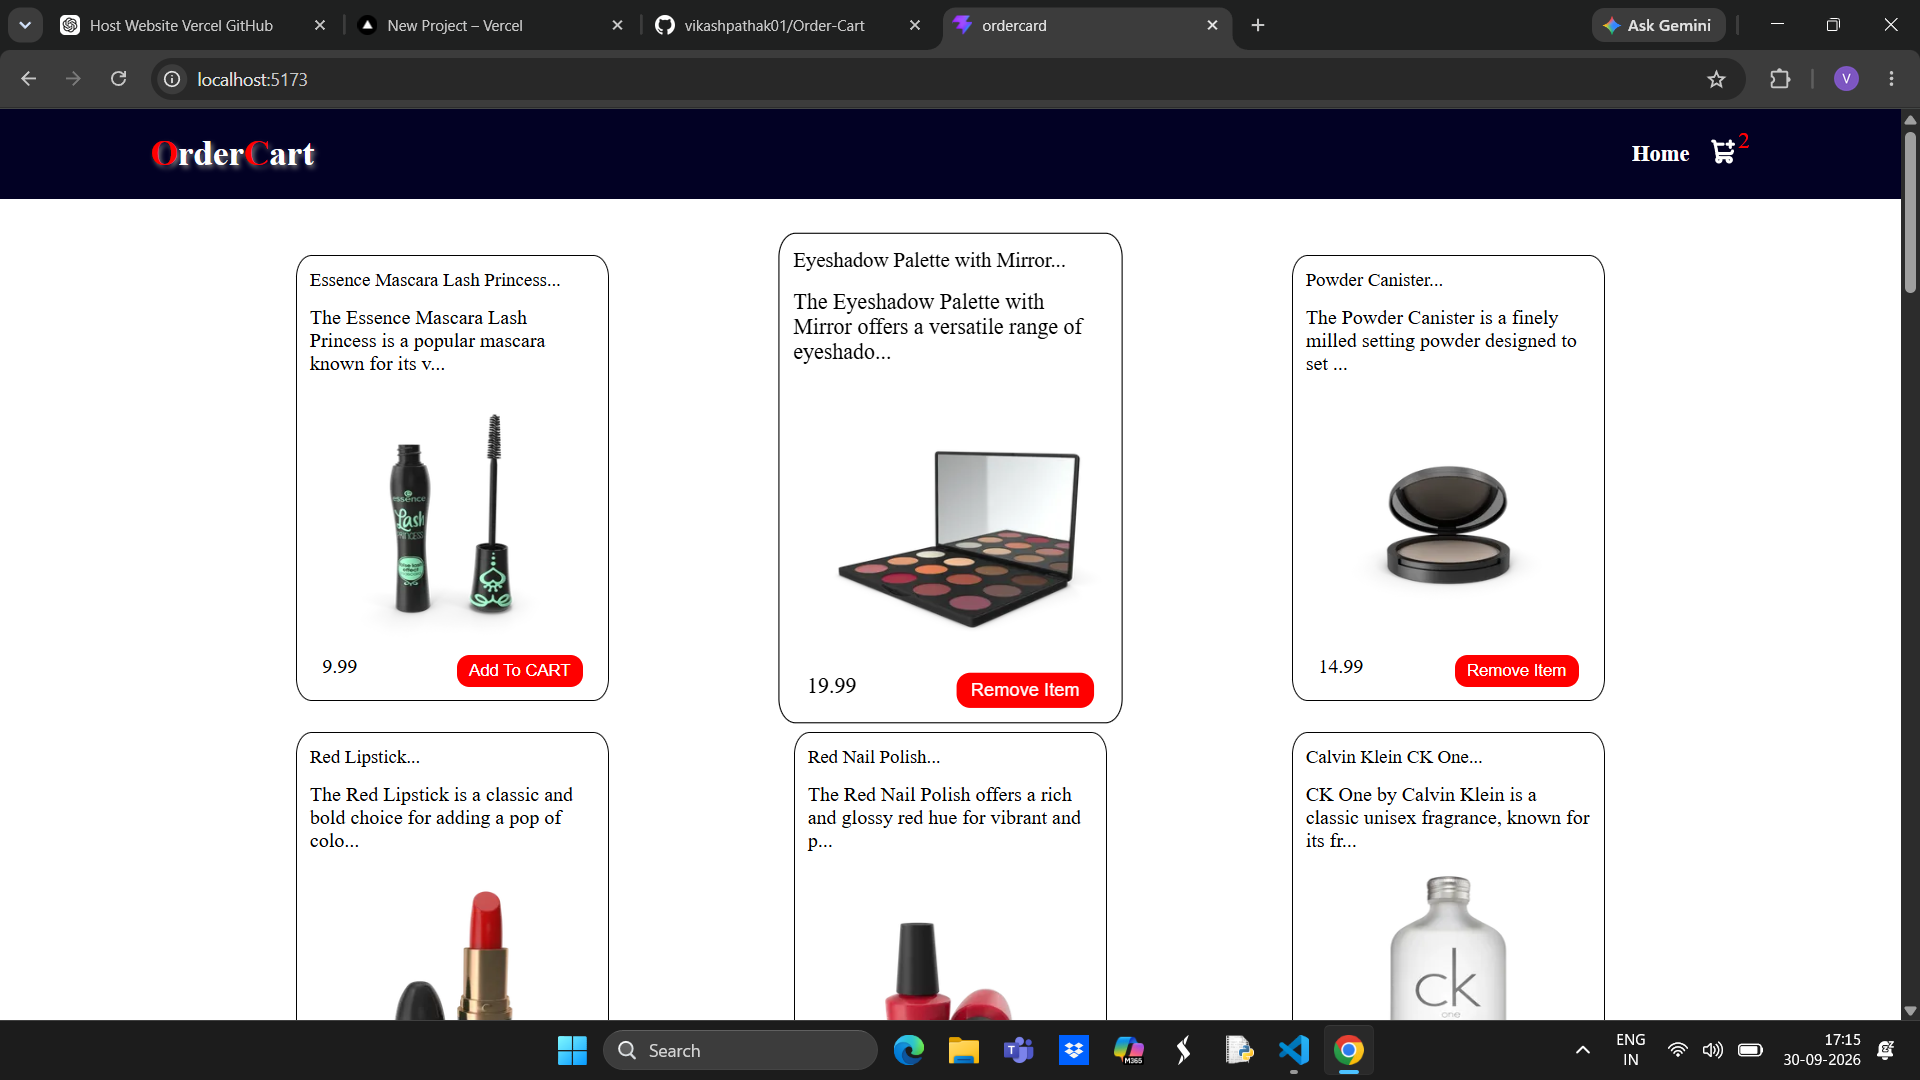
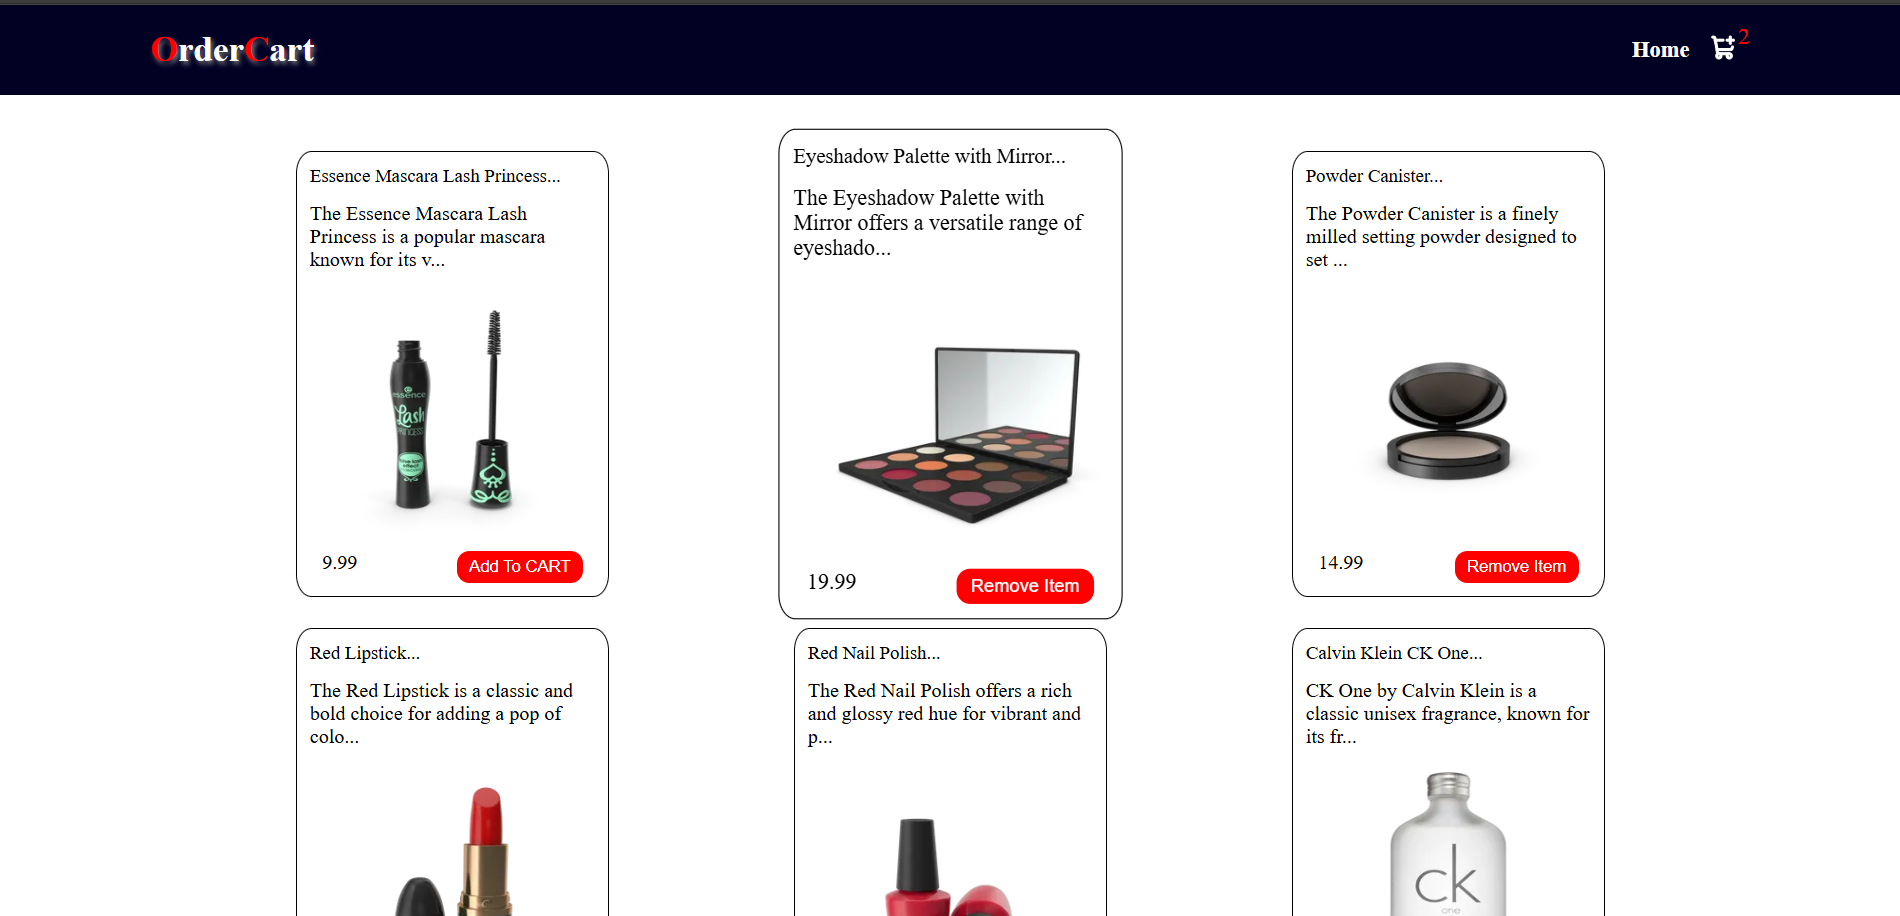
Updated project

diff --git a/src/pages/Projects.css b/src/pages/Projects.css
@@ -82,6 +82,10 @@
 
 }
 
+.Project-Information-Img img{
+    width: 450px;
+}
+
 @media (max-width:768px) {
     .Project-Card {
         flex-direction: column;
